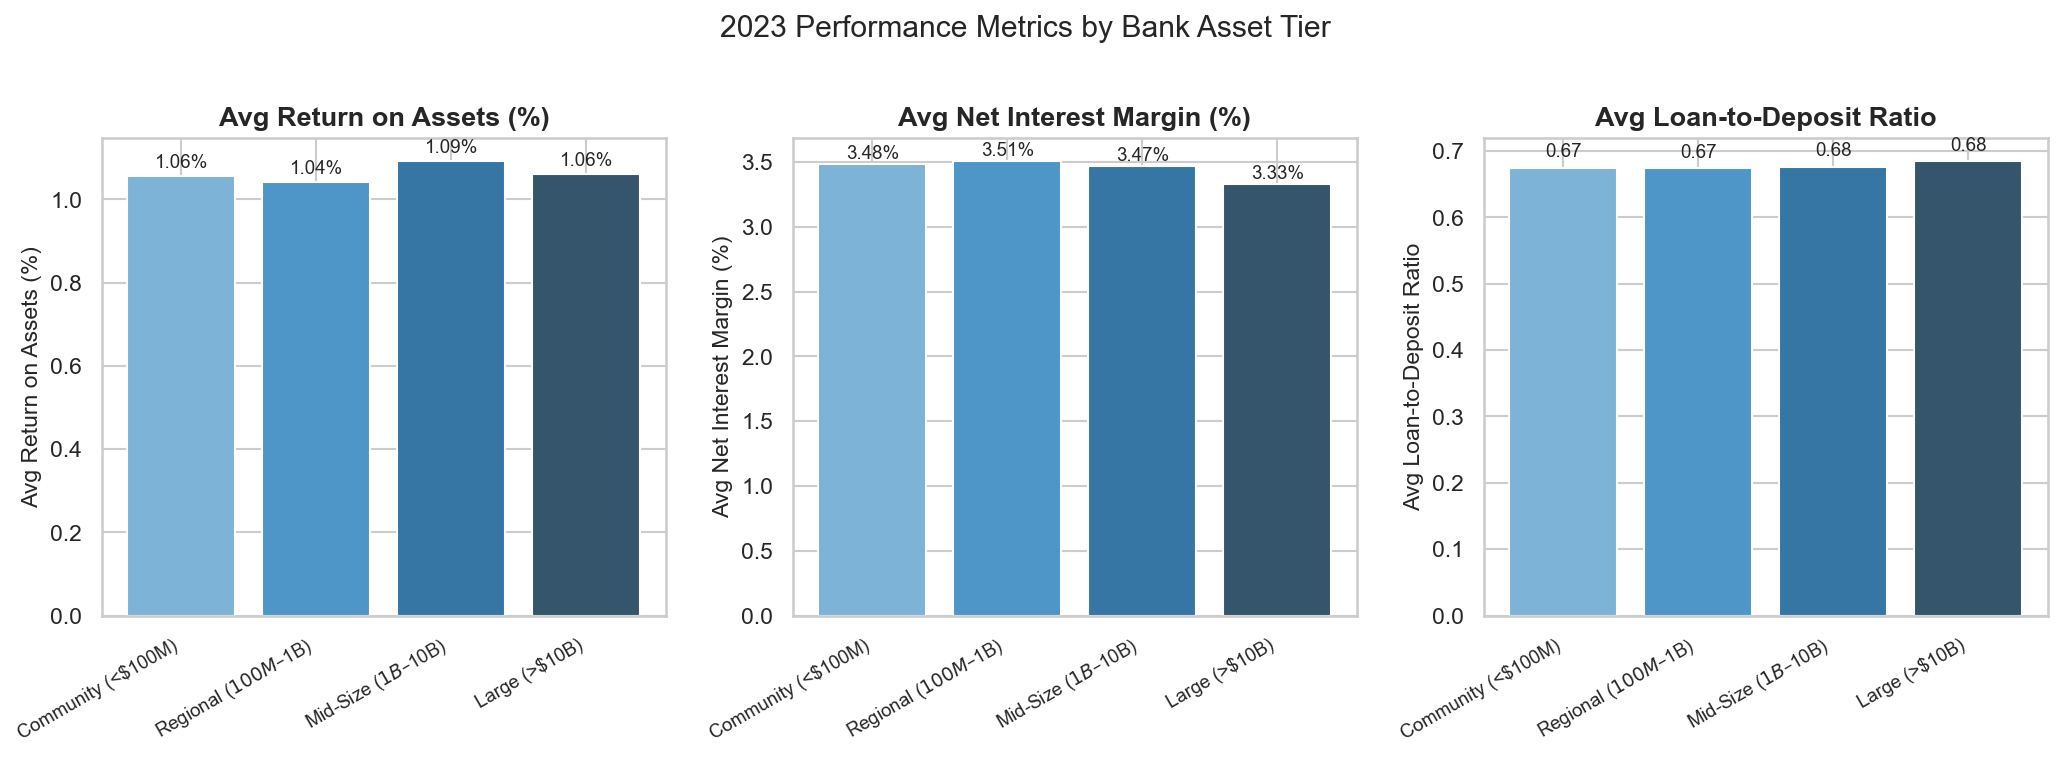
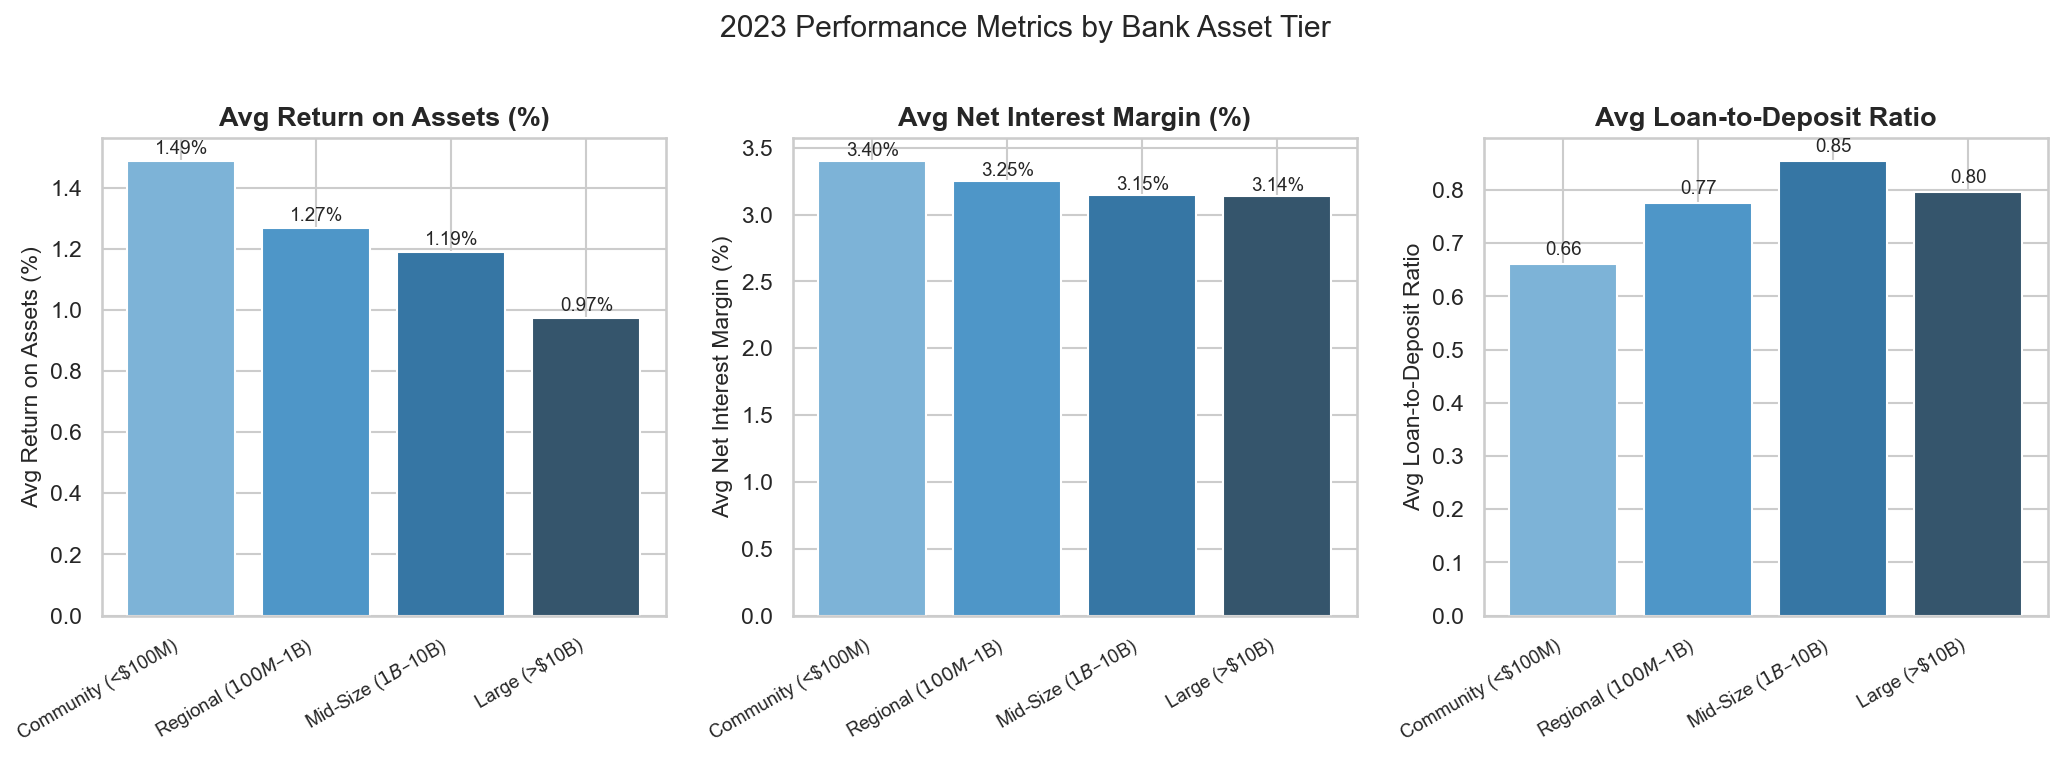
Load real FDIC data; fix NIM metric to rate (nim/asset*100)

diff --git a/01_fetch_data.py b/01_fetch_data.py
@@ -8,7 +8,7 @@ SQLite database for analysis.
 Run this first before 02_analyze.py.
 
 Data sources:
-  FDIC BankFind Suite — https://banks.fdic.gov/
+  FDIC BankFind Suite — https://banks.data.fdic.gov/
   No API key required. Public data.
 """
 
@@ -18,7 +18,7 @@ import sqlite3
 import time
 
 DB_PATH = "bank_data.db"
-FDIC_BASE = "https://banks.fdic.gov/api"
+FDIC_BASE = "https://banks.data.fdic.gov/api"
 
 YEARS = [2019, 2020, 2021, 2022, 2023]
 
@@ -47,17 +47,32 @@ INSTITUTION_FIELDS = ",".join([
 ])
 
 
+def fdic_get(url, params, retries=5):
+    """GET with exponential backoff on 429."""
+    for attempt in range(retries):
+        resp = requests.get(url, params=params)
+        if resp.status_code == 429:
+            wait = 2 ** attempt * 2
+            print(f"\n    rate limited, waiting {wait}s...", end="", flush=True)
+            time.sleep(wait)
+            continue
+        resp.raise_for_status()
+        return resp
+    resp.raise_for_status()
+    return resp
+
+
 def fetch_financials_for_year(year):
     """Fetch year-end call report financials for all FDIC-insured banks."""
     report_date = f"{year}1231"
     all_records = []
     offset = 0
-    limit = 10000
+    limit = 2000
 
     print(f"  Fetching {year} financials...", end="", flush=True)
 
     while True:
-        resp = requests.get(f"{FDIC_BASE}/financials", params={
+        resp = fdic_get(f"{FDIC_BASE}/financials", params={
             "filters": f"REPDTE:{report_date}",
             "fields": FINANCIAL_FIELDS,
             "limit": limit,
@@ -65,7 +80,6 @@ def fetch_financials_for_year(year):
             "sort_by": "ASSET",
             "sort_order": "DESC",
         })
-        resp.raise_for_status()
         payload = resp.json()
         records = payload.get("data", [])
 
@@ -82,7 +96,7 @@ def fetch_financials_for_year(year):
         if len(records) < limit:
             break
         offset += limit
-        time.sleep(0.2)  # polite pacing
+        time.sleep(0.5)
 
     print(f" {len(all_records):,} records")
     return pd.DataFrame(all_records)
@@ -93,16 +107,15 @@ def fetch_institutions():
     print("  Fetching institution metadata...", end="", flush=True)
     all_records = []
     offset = 0
-    limit = 10000
+    limit = 2000
 
     while True:
-        resp = requests.get(f"{FDIC_BASE}/institutions", params={
+        resp = fdic_get(f"{FDIC_BASE}/institutions", params={
             "filters": "ACTIVE:1",
             "fields": INSTITUTION_FIELDS,
             "limit": limit,
             "offset": offset,
         })
-        resp.raise_for_status()
         payload = resp.json()
         records = payload.get("data", [])
 
@@ -117,7 +130,7 @@ def fetch_institutions():
         if len(records) < limit:
             break
         offset += limit
-        time.sleep(0.2)
+        time.sleep(0.5)
 
     print(f" {len(all_records):,} records")
     return pd.DataFrame(all_records)

diff --git a/02_analyze.py b/02_analyze.py
@@ -59,7 +59,7 @@ SELECT
     END                             AS tier,
     COUNT(*)                        AS bank_count,
     ROUND(AVG(roa), 4)              AS avg_roa,
-    ROUND(AVG(nim), 4)              AS avg_nim,
+    ROUND(AVG(CAST(nim AS REAL) / NULLIF(asset, 0) * 100), 4) AS avg_nim,
     ROUND(AVG(roe), 4)              AS avg_roe,
     ROUND(
         AVG(CAST(lnlsnet AS REAL) / NULLIF(dep, 0)), 4
@@ -75,7 +75,7 @@ ORDER BY MIN(asset);
 QUERY_YEARLY_TREND = """
 SELECT
     repdte                          AS report_date,
-    ROUND(AVG(nim), 4)              AS avg_nim,
+    ROUND(AVG(CAST(nim AS REAL) / NULLIF(asset, 0) * 100), 4) AS avg_nim,
     ROUND(AVG(roa), 4)              AS avg_roa,
     COUNT(*)                        AS bank_count
 FROM bank_financials
@@ -90,7 +90,7 @@ SELECT
     i.stalp                         AS state,
     COUNT(*)                        AS bank_count,
     ROUND(AVG(f.roa), 4)            AS avg_roa,
-    ROUND(AVG(f.nim), 4)            AS avg_nim
+    ROUND(AVG(CAST(f.nim AS REAL) / NULLIF(f.asset, 0) * 100), 4) AS avg_nim
 FROM bank_financials f
 JOIN institutions i ON f.cert = i.cert
 WHERE f.repdte = '20231231'
@@ -109,7 +109,7 @@ SELECT
     i.stalp                         AS state,
     ROUND(f.asset / 1000.0, 1)      AS assets_millions,
     ROUND(f.roa, 4)                 AS roa,
-    ROUND(f.nim, 4)                 AS nim,
+    ROUND(CAST(f.nim AS REAL) / NULLIF(f.asset, 0) * 100, 4) AS nim,
     ROUND(
         CAST(f.lnlsnet AS REAL) / NULLIF(f.dep, 0), 4
     )                               AS loan_to_deposit
@@ -136,7 +136,7 @@ WITH ranked AS (
             ELSE                          'Large (>$10B)'
         END                                             AS tier,
         ROUND(f.roa, 4)                                 AS roa,
-        ROUND(f.nim, 4)                                 AS nim,
+        ROUND(CAST(f.nim AS REAL) / NULLIF(f.asset, 0) * 100, 4) AS nim,
         RANK() OVER (
             PARTITION BY CASE
                 WHEN f.asset < 100000    THEN 'Community (<$100M)'
